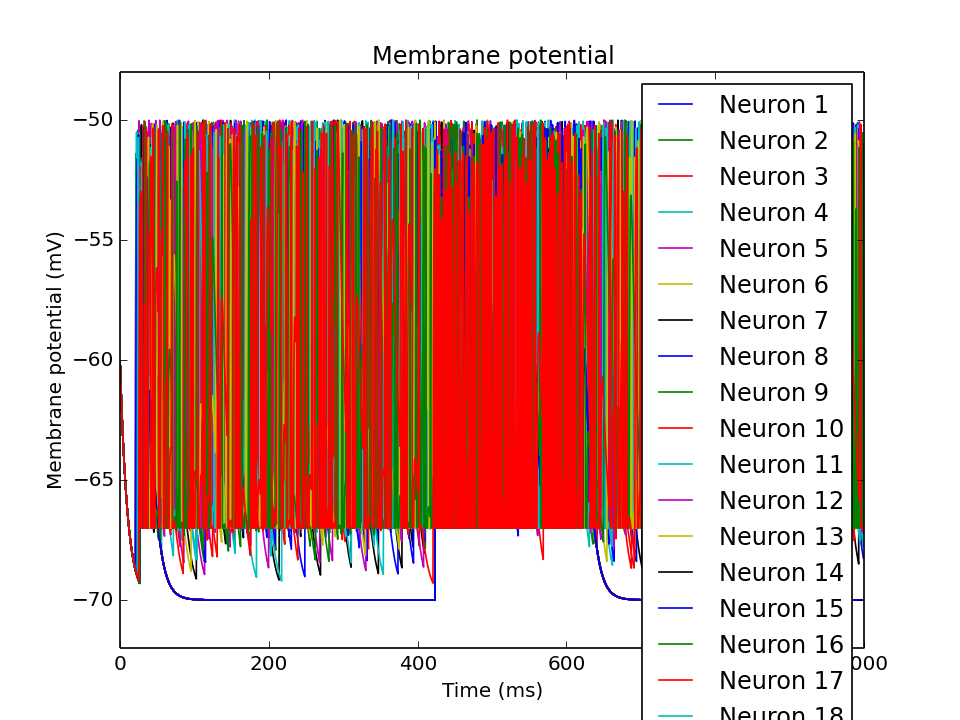
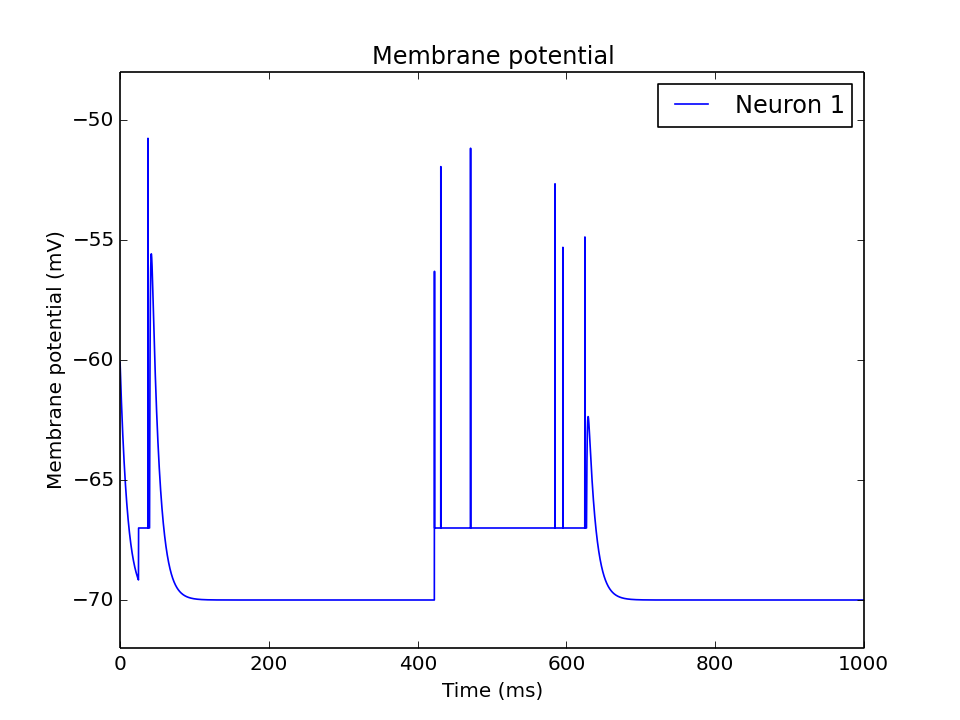
fix bag

diff --git a/nest/mesolimbic/meso_neuromodulaton.py b/nest/mesolimbic/meso_neuromodulaton.py
@@ -105,13 +105,11 @@ logger.debug('Making neuromodulating connections...')
 if dopa_flag:
     # Volume transmission: init dopa_model
     vt_ex = nest.Create("volume_transmitter")
-    # for inhibitory: vt_in = nest.Create("volume_transmitter")
     DOPA_synparams_ex['vt'] = vt_ex[0]
-    # for inhibitory:  DOPA_synparams_in['vt'] = vt_in[0]
     nest.Connect(vta[vta_DA0], vt_ex)
     nest.Connect(vta[vta_DA1], vt_ex)
     nest.CopyModel('stdp_dopamine_synapse', dopa_model_ex, DOPA_synparams_ex)
-    # for inhibitory: nest.CopyModel('stdp_dopamine_synapse', dopa_model_in, DOPA_synparams_in)
+
     nest.Connect(vta[vta_DA0], prefrontal_cortex[cortex], conn_dict, syn_spec=dopa_model_ex)
     log_conn(vta[vta_DA0], prefrontal_cortex[cortex], dopa_model_ex)
     nest.Connect(vta[vta_DA1], nac[nac_GABA1], conn_dict, syn_spec=dopa_model_ex)
@@ -164,14 +162,13 @@ logger.debug("spike detecor is attached to VTA[DA0]: tracing %d neurons" % N_rec
 # ============
 # MULTIMETER
 # ============
-# ToDo find mistake in scheme, invalid values in cortex.. maybe in vta[DA0]
 mm_param["label"] = 'prefrontal cortex'
 mm1 = nest.Create('multimeter', params=mm_param)
-nest.Connect(mm1, prefrontal_cortex[cortex])
+nest.Connect(mm1, (prefrontal_cortex[cortex][0],))
 logger.debug("%s - %d", mm_param["label"], prefrontal_cortex[cortex][0])
 mm_param["label"] = 'vta[DA0]'
 mm2 = nest.Create('multimeter', params=mm_param)
-nest.Connect(mm2, vta[vta_DA0])
+nest.Connect(mm2, (vta[vta_DA0][0],))
 logger.debug("%s - %d", mm_param["label"], vta[vta_DA0][0])
 
 # ==========

diff --git a/nest/mesolimbic/parameters.py b/nest/mesolimbic/parameters.py
@@ -67,20 +67,20 @@ def generate_neurons_MP(nest):
         # ===========
         # TEST NUMBER
         # ===========
-        prefrontal_cortex[cortex][k_NN] = 80
-        prefrontal_cortex[cortex_Glu0][k_NN] = 10
-        prefrontal_cortex[cortex_Glu1][k_NN] = 10
-        nac[nac_Ach][k_NN] = 10
-        nac[nac_GABA0][k_NN] = 10
-        nac[nac_GABA1][k_NN] = 10
-        vta[vta_GABA0][k_NN] = 10
-        vta[vta_DA0][k_NN] = 10
-        vta[vta_GABA1][k_NN] = 10
-        vta[vta_DA1][k_NN] = 10
-        vta[vta_GABA2][k_NN] = 10
-        tpp[tpp_GABA][k_NN] = 10
-        tpp[tpp_Ach][k_NN] = 10
-        tpp[tpp_Glu][k_NN] = 10
+        prefrontal_cortex[cortex][k_NN] = 800
+        prefrontal_cortex[cortex_Glu0][k_NN] = 100
+        prefrontal_cortex[cortex_Glu1][k_NN] = 100
+        nac[nac_Ach][k_NN] = 100
+        nac[nac_GABA0][k_NN] = 100
+        nac[nac_GABA1][k_NN] = 100
+        vta[vta_GABA0][k_NN] = 100
+        vta[vta_DA0][k_NN] = 100
+        vta[vta_GABA1][k_NN] = 100
+        vta[vta_DA1][k_NN] = 100
+        vta[vta_GABA2][k_NN] = 100
+        tpp[tpp_GABA][k_NN] = 100
+        tpp[tpp_Ach][k_NN] = 100
+        tpp[tpp_Glu][k_NN] = 100
 
         # test coeficient
         test_coef = 1
